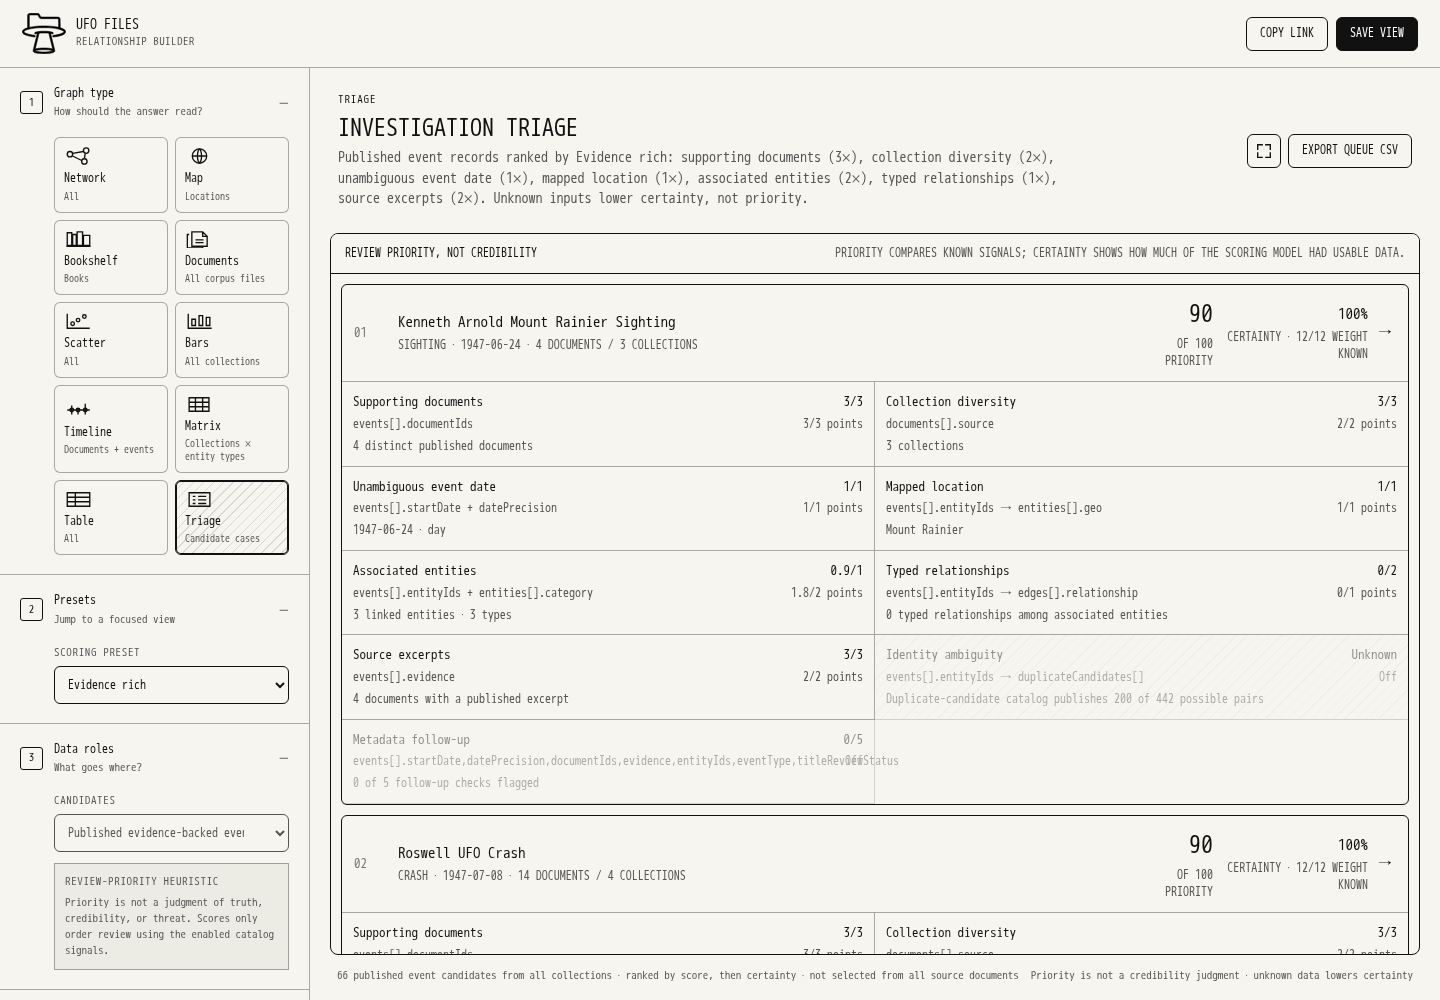
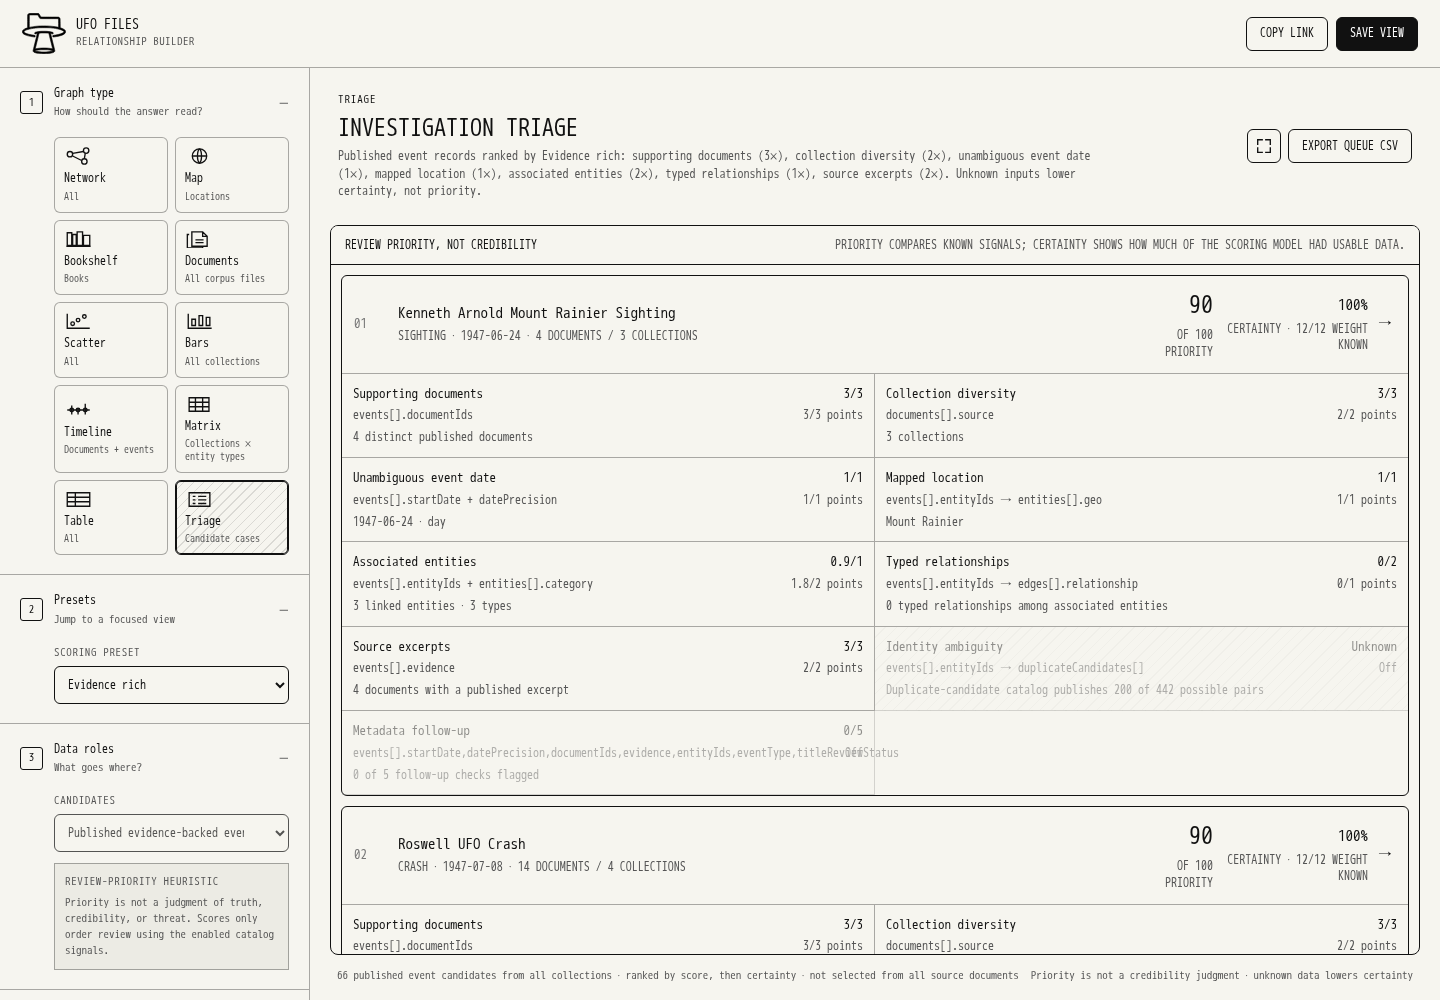
Set stage subtitles to 12px

diff --git a/styles.css b/styles.css
@@ -99,7 +99,7 @@ p { max-width: 768px; }
 .stage-header { display: flex; justify-content: space-between; gap: 20px; padding: 24px 28px; }
 .stage-header h2 { display: inline-block; font: 400 24px/1.1 var(--font); letter-spacing: 0; text-transform: uppercase; margin-bottom: 6px; border-bottom: 1px dashed transparent; }
 .stage-header h2:hover { border-bottom-color: var(--line-strong); }
-.stage-header p:last-child { color: var(--muted); font-size: 14px; line-height: 1.45; margin-bottom: 0; }
+.stage-header p:last-child { color: var(--muted); font-size: 12px; line-height: 1.45; margin-bottom: 0; }
 .stage-tools { display: flex; flex: 0 0 auto; align-items: center; gap: 7px; }
 .stage-tools .button { flex: 0 0 auto; white-space: nowrap; }
 .stage.pdf-exporting { --paper: #fff; background: #fff; }

diff --git a/tests/test_app.js b/tests/test_app.js
@@ -577,6 +577,7 @@ test("app typography never renders below 10px", () => {
     .map(match => Number(match[1]))
     .filter(size => size < 10);
   assert.deepEqual(undersizedRules, []);
+  assert.match(styles, /\.stage-header p:last-child \{[^}]*font-size: 12px;/);
   assert.match(styles, /\.triage-component strong \{ margin-bottom: 0\.325rem; \}/);
 
   const source = fs.readFileSync("app.js", "utf8");
